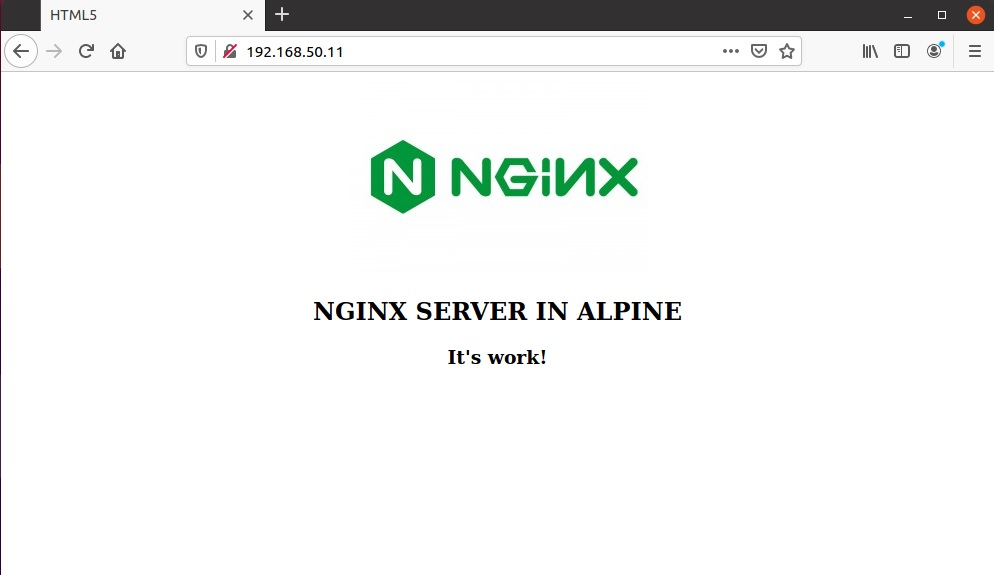
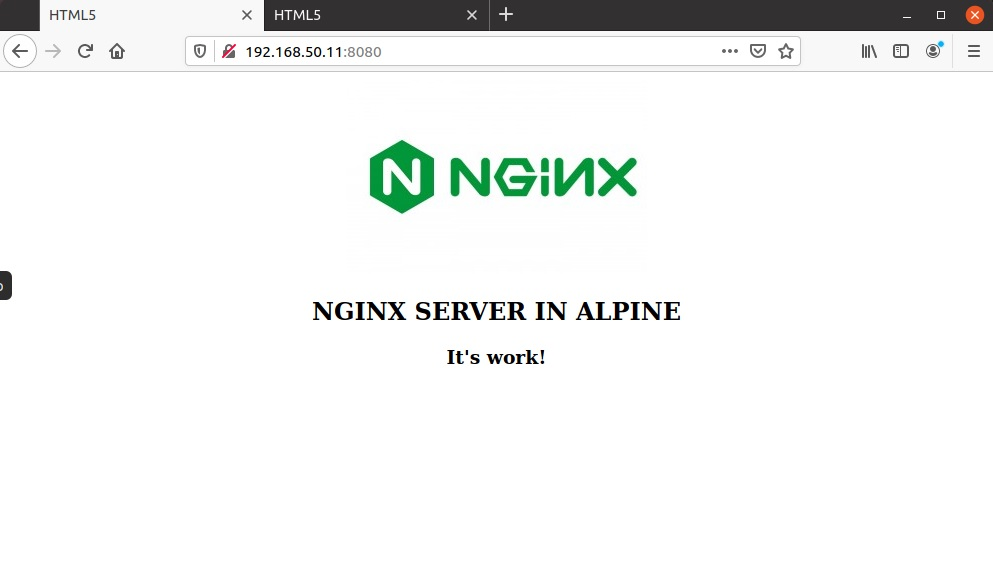
Docker

diff --git a/lesson19/readme.md b/lesson19/readme.md
@@ -7,9 +7,17 @@
 * Ответить на вопрос: Можно ли в контейнере собрать ядро?
 * Собранный образ необходимо запушить в docker hub и дать ссылку на репозиторий.
 
-## Решение
+## Задача 2
 
-Создадим тестовую среду для выполняния задач с Docker и Docker-Compose - **[Vagrant file](vagrantfile)**. После запуска Vagrant наш докер контейнер ответит по адресу http://192.168.50.11:8080.
+* Создать кастомные образы nginx и php, объедините их в docker-compose;
+* После запуска nginx должен показывать php info;
+* Все собранные образы должны быть в docker hub.
+
+## Решения
+
+Создадим тестовую среду для выполняния задач с Docker и Docker-Compose - **[Vagrant file](vagrantfile)**. После запуска Vagrant наш докер контейнер ответит по адресу http://192.168.50.11:8080 для **задачи 1**и по адресу http://192.168.50.11 для **задачи 2**. 
+
+## Решение задачи 1
 
 ![Image OK](images/1-1.jpg)
 
@@ -93,7 +101,7 @@ docker push airmeno/aplpine-nginx
 ```
 Образ на Docker Hub - https://hub.docker.com/repository/docker/airmeno/alpine-nginx
 
-Для запуска нашего контенера на любом Docker:
+Для запуска нашего контейнера на любом Docker:
 
 ```
 docker run -it -d -p 80:80 airmeno/alpine-nginx
@@ -139,7 +147,7 @@ docker ps -a
 * Все собранные образы должны быть в docker hub.
 
 
-## Решение
+## Решение задачи 2
 
 Создадим тестовую среду для выполняния задач с Docker и Docker-Compose.
 
@@ -161,7 +169,7 @@ docker ps -a
 
 * code - директория проекта, тут наши файлы, что формируют вывод Nginx
 * nginx - директория для сборки контейнера Nginx
-* php - диретория для сборки PHP
+* php - директория для сборки PHP
 
 **Nginx. Сборка контейнера на базе Alpine Linux**
 
@@ -251,3 +259,27 @@ services:
 docker-compose -f path_to/docker-compose.yaml up -d
 ```
 
+## Важно!
+> Если Docker-хост на CentOS скорее будут проблемы с недоступностью страницы сайта. Это блокирует SELinux. **Решение проблемы:** отключить SELinux или в docker-compose.yaml вместо прав rw назначить z или Z. Для CentOS файл будет выглядеть так:
+
+```
+version: '3'
+
+services:
+ nginx:
+  image: airmeno/otus-nginx
+  ports:
+   - 80:80
+  volumes:
+   - ./code:/www:z
+  working_dir: /www  
+  links:
+   - myphp
+ 
+ myphp:
+  image: airmeno/otus-php
+  container_name: myphp
+  volumes:
+   - ./code:/www:z
+  working_dir: /www 
+```
